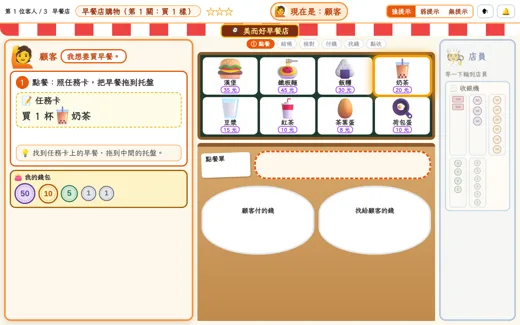
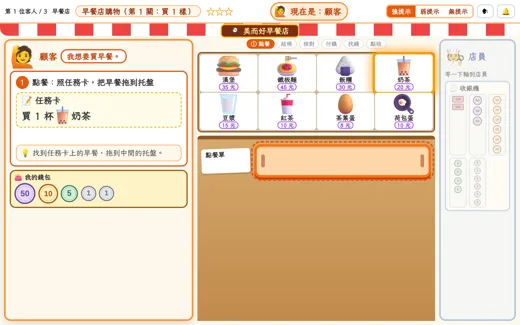
早餐店遊戲回饋第一輪：規劃文件＋重產縮圖
Claude-Session: https://claude.ai/code/session_011NSASYBWvdDhJFsSK2QUnf

Changed region(s): [[0.3692, 0.1231, 0.8615, 0.8]]

diff --git a/docs/早餐店購物遊戲_規劃.md b/docs/早餐店購物遊戲_規劃.md
@@ -21,6 +21,7 @@
 | 定位 | **放進系統一起賣**：比照現有互動頁（強／弱／無提示、逐題漸退、朗讀、作答紙、列入互動學習單總覽） |
 | 除法（第 4 關） | 先做**平分**、**組合價**（沒有餘數）；「最多買幾個（有餘數）」之後另開一關 |
 | 菜單數量（2026-11-08） | **每場菜單只擺 8 樣**（使用者：限縮在 10 個以內，避免選項太多造成認知負擔）；圖庫 12 樣，每場隨機挑，一定含任務要買的 |
+| 使用者回饋第一輪（2026-11-09） | ①鍵盤「好了」改「確認」②托盤改速食店托盤造型 ③金額交易區（付錢／找錢兩張卡）核對無誤後才浮現、改長方形、付錢找錢加手部動畫 ④「付好了／找好了」移到盤子正下方 ⑤菜單格線變細。實作見後端 `docs/guide/game-shop.md` |
 | 付太多 | 付的錢比總價多也算對，照樣找錢；強提示多問「有沒有剛好的付法？」 |
 | 菜單（2026-11-08 定案） | 蛋餅 25（份）、漢堡 35（個）、三明治 30（個）、鐵板麵 45（份）、飯糰 30（個）、吐司 20（片）、熱狗 15（根）、奶茶 20、豆漿 15、紅茶 10（杯）、茶葉蛋 8（顆）、荷包蛋 10（個）。開放圖示沒有蘿蔔糕、薯餅，改成飯糰、熱狗，並加吐司、荷包蛋。茶葉蛋 8 元低於圖庫 d2 下限 10，刻意保留（要用到 1、5 元硬幣），管理端改價會被驗證擋 |
 
